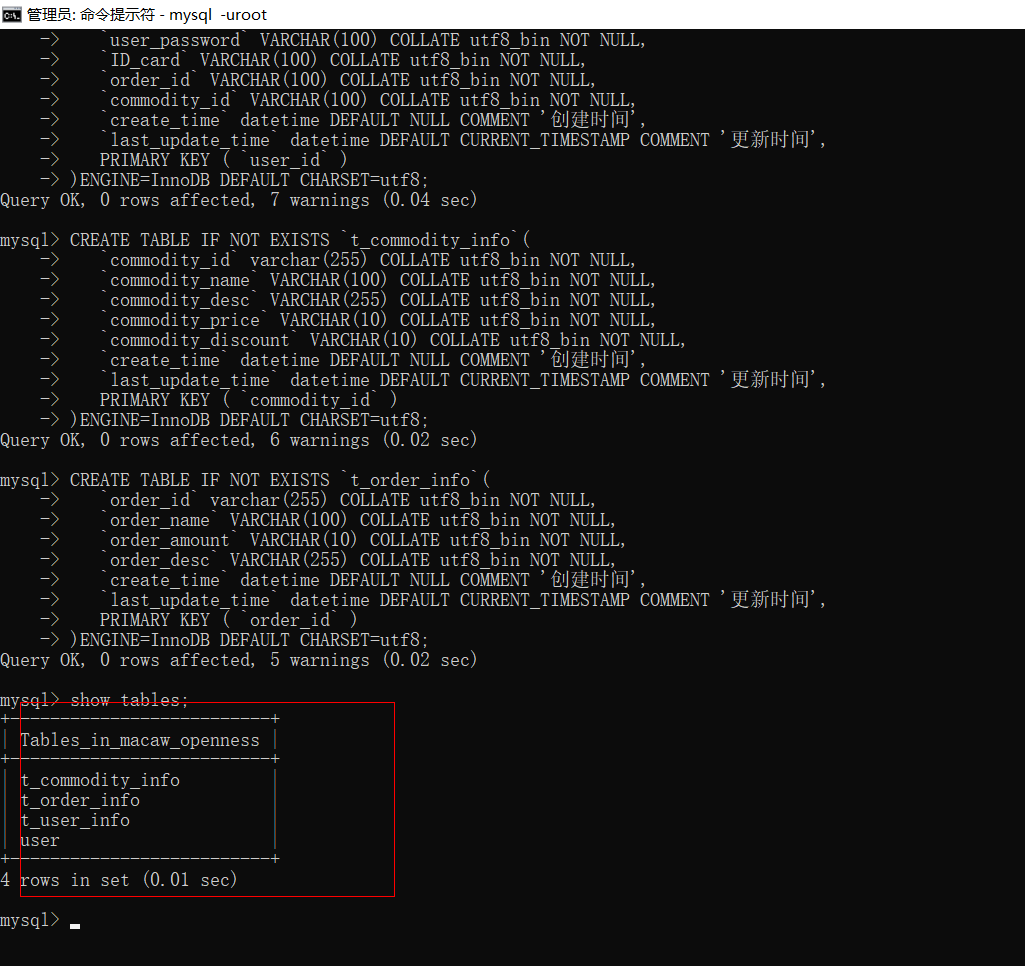
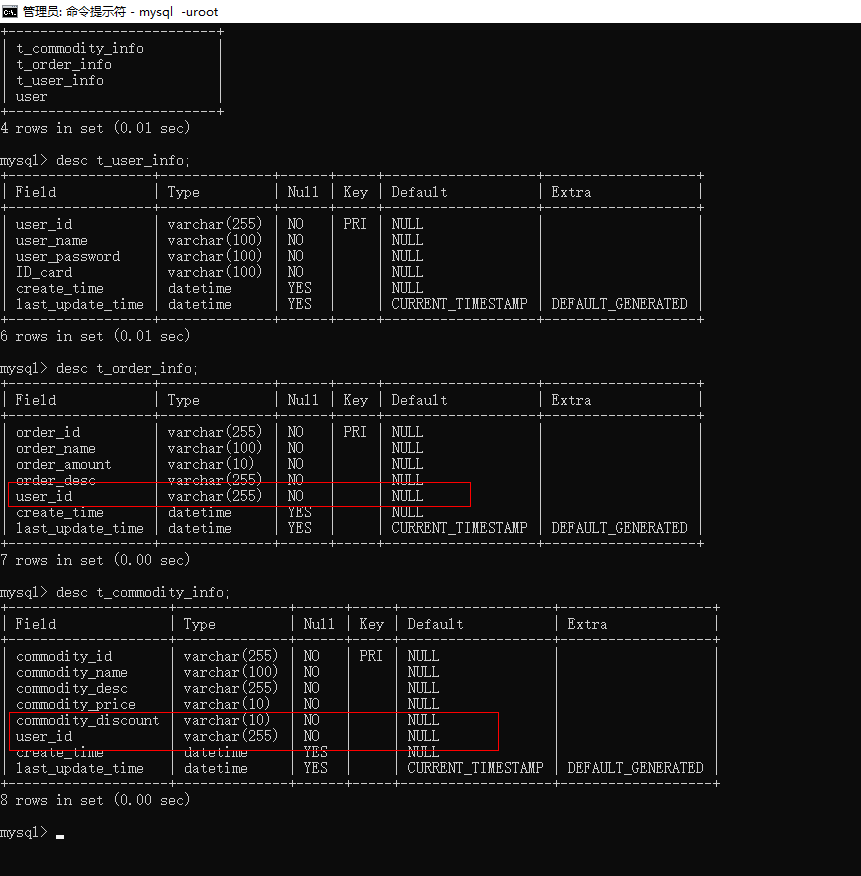
修改作业与增加总结

diff --git a/week06/必做题.md b/week06/必做题.md
@@ -2,7 +2,6 @@
 
 
 CREATE TABLE IF NOT EXISTS `t_user_info`(
-
    `user_id` varchar(255) COLLATE utf8_bin NOT NULL,
    
    `user_name` VARCHAR(100) COLLATE utf8_bin NOT NULL,
@@ -61,9 +60,80 @@ CREATE TABLE IF NOT EXISTS `t_order_info`(
    
 )ENGINE=InnoDB DEFAULT CHARSET=utf8;
 
+反思了下，t_user_info 表结构不符合第二范式，主键为：user_id，order_id 以及 commodity_id ，而user_name、user_password以及ID_card只与user_id有关，即：它主键中的一部分有关系。
+
+CREATE TABLE IF NOT EXISTS `t_user_info`(
+
+   `user_id` varchar(255) COLLATE utf8_bin NOT NULL,
+   
+   `user_name` VARCHAR(100) COLLATE utf8_bin NOT NULL,
+   
+   `user_password` VARCHAR(100) COLLATE utf8_bin NOT NULL,
+   
+   `ID_card` VARCHAR(100) COLLATE utf8_bin NOT NULL COMMENT '身份证ID',
+  
+   `create_time` datetime DEFAULT NULL COMMENT '创建时间',
+   
+   `last_update_time` datetime DEFAULT CURRENT_TIMESTAMP COMMENT '更新时间',
+   
+   PRIMARY KEY ( `user_id` )
+   
+)ENGINE=InnoDB DEFAULT CHARSET=utf8;
+
+
+CREATE TABLE IF NOT EXISTS `t_commodity_info`(
+   `commodity_id` varchar(255) COLLATE utf8_bin NOT NULL,
+   
+   `commodity_name` VARCHAR(100) COLLATE utf8_bin NOT NULL,
+   
+   `commodity_desc` VARCHAR(255) COLLATE utf8_bin NOT NULL,
+   
+   `commodity_price` VARCHAR(10) COLLATE utf8_bin NOT NULL,
+   
+   `commodity_discount` VARCHAR(10) COLLATE utf8_bin NOT NULL,
+   
+   `user_id` varchar(255) COLLATE utf8_bin NOT NULL,
+   
+   `create_time` datetime DEFAULT NULL COMMENT '创建时间',
+   
+   `last_update_time` datetime DEFAULT CURRENT_TIMESTAMP COMMENT '更新时间',
+   
+   PRIMARY KEY ( `commodity_id` )
+   
+)ENGINE=InnoDB DEFAULT CHARSET=utf8;
+
+
+CREATE TABLE IF NOT EXISTS `t_order_info`(
+   `order_id` varchar(255) COLLATE utf8_bin NOT NULL,
+   
+   `order_name` VARCHAR(100) COLLATE utf8_bin NOT NULL,
+   
+   `order_amount` VARCHAR(10) COLLATE utf8_bin NOT NULL,
+   
+   `order_desc` VARCHAR(255) COLLATE utf8_bin NOT NULL,
+   
+   `user_id` varchar(255) COLLATE utf8_bin NOT NULL,
+   
+   `create_time` datetime DEFAULT NULL COMMENT '创建时间',
+   
+   `last_update_time` datetime DEFAULT CURRENT_TIMESTAMP COMMENT '更新时间',
+   
+   PRIMARY KEY ( `order_id` )
+   
+)ENGINE=InnoDB DEFAULT CHARSET=utf8;
+
+
+做题目得到的总结（其实掺杂了看视频的总结，只不过通过自己手动涉及表加深了理解）：
+
+通过以上数据库设计，我发现：数据库设计范式会指导我们设计出一个表尽量只描述一种物体（人、课、系、仓库或者），除非描述某个物体经需要另一个物体的某些字段，这是我们才会描述改物体的表出现允许一些冗余字段（描述其他物体的字段），这样可以提高查询速率、可以更加便捷方便。
+
+一个表尽量只描述一种物体：我理解可以减少表的列，并且用最少的内存表达最多的信息（我这样理解对不对，请老师指明？）。
 
 
 
+
+
+看视频的总结如下：
 
 数据库设计范式：
 什么是关系数据库
@@ -92,7 +162,10 @@ BC 范式（BCNF）：在满足3NF 的基础上，消除主属性对码的部分
 
 学号           姓名      系               课名         分数
 10022211101    李小明    经济系-王强      高等数学     98
+
 这样就一定不满足第一范式吗，我认为不一定，如果我这个系统就是没有对 系名与系主任的区分，并且知道系名就一定知道系主任名称，并且系名、系主任一定不会被修改，或者系统根本不care这种关系的变化。
+
+以上为诡辩，既然不关注 系信息 为什么要写 经济系-王强，不直接写 经济系 即可。
 
 
 
